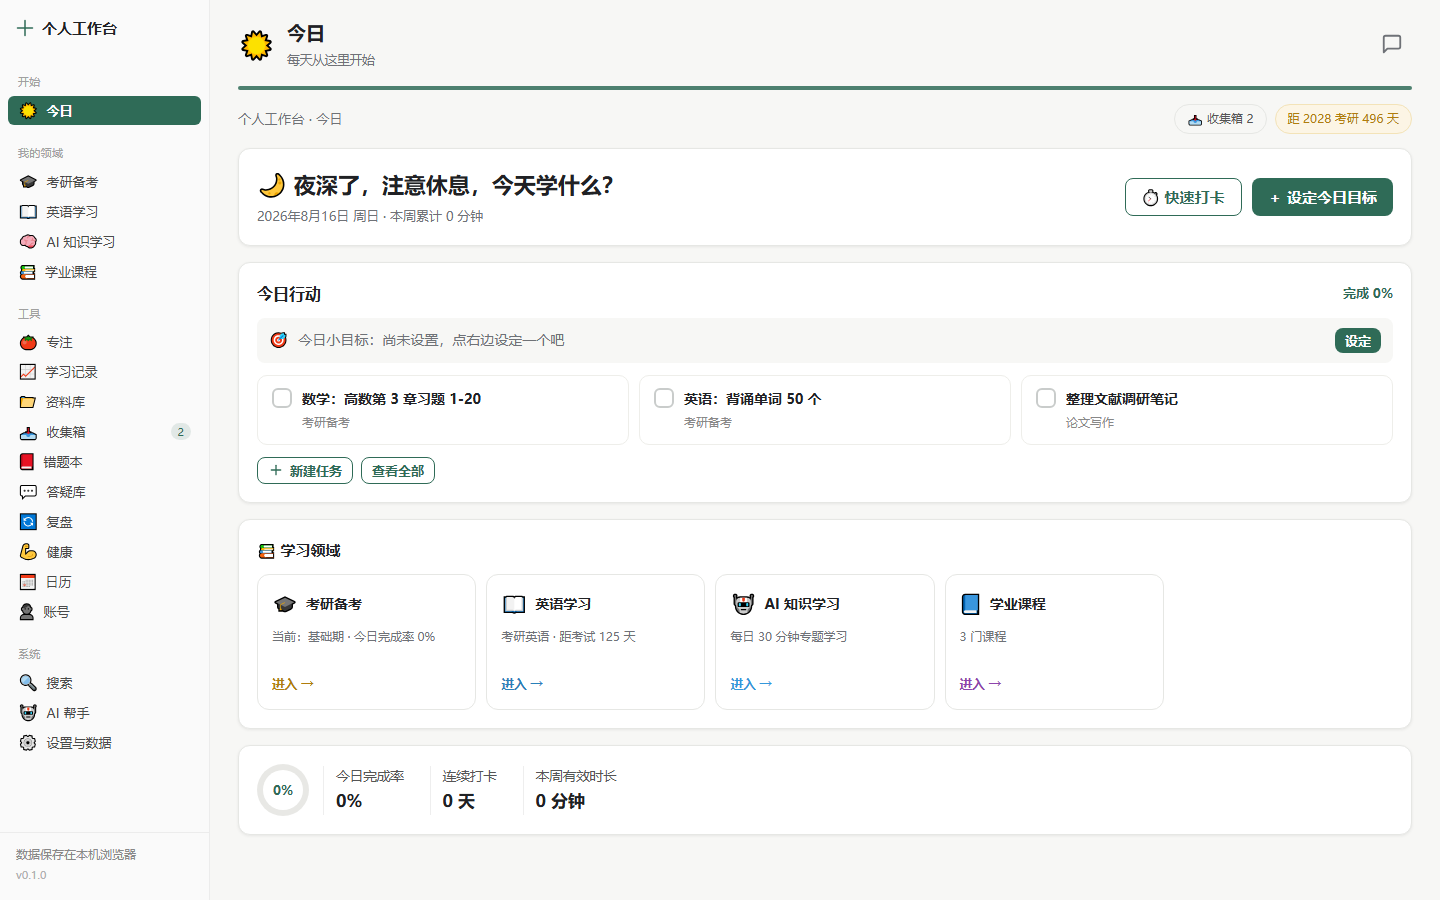
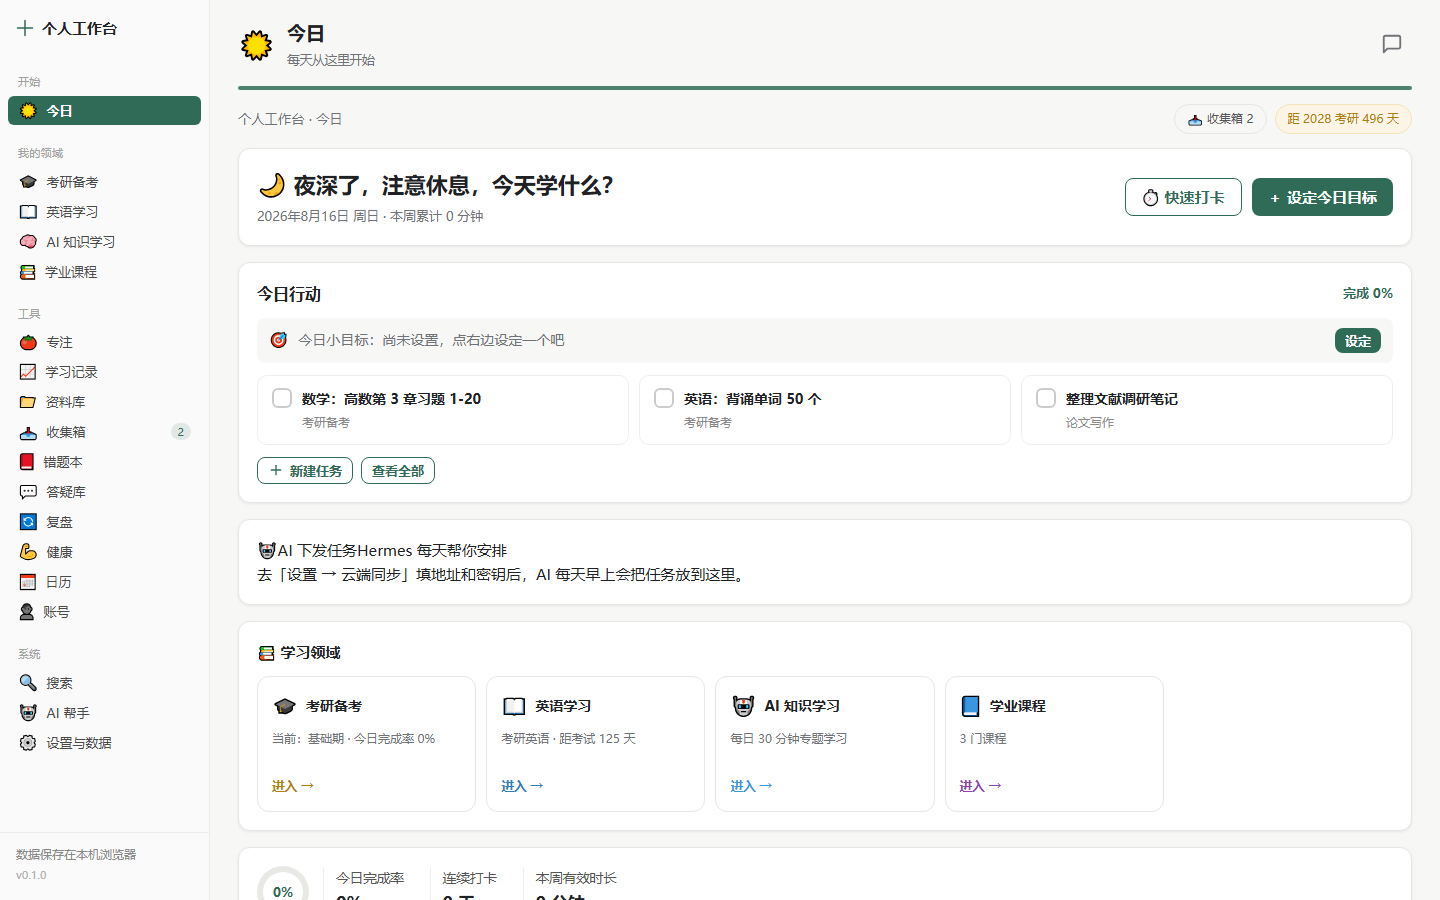
AI下发任务：今日页AI任务卡（云端拉取+本地打勾）+云端/api/tasks接口+Hermes每日7点自动生成任务下发

diff --git a/app.js b/app.js
@@ -590,7 +590,38 @@
     return map[view] || { t: view, s: "" };
   }
 
-  /* ---------- 渲染 ---------- */
+  /* ---------- AI 下发任务（Hermes 每天写入云端，今日页拉取展示） ---------- */
+  function aiTasksLoad() {
+    var box = $id("aiTasksBox");
+    if (!box) return;
+    var head = '<div class="c-head"><span class="c-emoji">🤖</span><span class="c-title">AI 下发任务</span><span class="c-sub">Hermes 每天帮你安排</span></div>';
+    var sc = data.settings.sync || {};
+    if (!sc.url || !sc.key) {
+      box.innerHTML = head + '<div class="li-sub">去「设置 → 云端同步」填地址和密钥后，AI 每天早上会把任务放到这里。</div>';
+      return;
+    }
+    fetch(String(sc.url).replace(/\/+$/, "") + "/api/tasks", { headers: { "X-Sync-Key": sc.key } })
+      .then(function (r) { return r.json(); })
+      .then(function (j) {
+        var t = todayStr();
+        if (!j || !j.tasks || j.date !== t) {
+          box.innerHTML = head + '<div class="li-sub">今天的任务还没下发（每天早上 7 点 Hermes 会生成）。</div>';
+          return;
+        }
+        var doneMap = W.aiTaskDone || {};
+        box.innerHTML = head + '<div class="home-tasks">' + j.tasks.map(function (task, i) {
+          var id = "ait-" + i;
+          return '<div class="home-task" data-action="ai-task-done" data-idx="' + i + '">' +
+            '<span class="box' + (doneMap[id] ? " on" : "") + '">' + (doneMap[id] ? "✓" : "") + "</span>" +
+            '<div><div class="ht-name">' + esc(task.title) + "</div>" +
+            (task.subject ? '<div class="ht-sub">' + esc(task.subject) + (task.note ? " · " + esc(task.note) : "") + "</div>" : "") +
+            "</div></div>";
+        }).join("") + "</div>";
+      })
+      .catch(function () {
+        box.innerHTML = head + '<div class="li-sub">拉取失败：网络不通或密钥不对。</div>';
+      });
+  }
   function applyFont() {
     var fs = (data.settings && data.settings.fontSize) || "normal";
     var body = document.body;
@@ -604,6 +635,7 @@
     applyTheme();
     applyBg();
     applyFont();
+    if (W.ui.view === "today") aiTasksLoad();
   }
   function renderNav() {
     var nav = $id("sideNav");
@@ -2737,6 +2769,14 @@
         data.settings.focusMode = data.settings.focusMode === "b" ? "a" : "b";
         save(true); renderView(); break;
 
+      case "ai-task-done": {
+        var dm2 = W.aiTaskDone = W.aiTaskDone || {};
+        var did2 = "ait-" + id;
+        dm2[did2] = !dm2[did2];
+        try { localStorage.setItem("wb_ai_tasks_done", JSON.stringify(dm2)); } catch (e) { }
+        aiTasksLoad();
+        break;
+      }
       case "sync-push": syncPush(false); break;
       case "sync-pull": syncPull(); break;
       case "sync-save": {

diff --git a/.pages-deploy/functions/api/tasks.js b/.pages-deploy/functions/api/tasks.js
@@ -1,0 +1,33 @@
+/* 个人工作台 · AI 任务下发（Cloudflare Pages Function）
+   GET  /api/tasks → 返回 {date, tasks:[{title, note, subject}]}（网页今日页展示）
+   PUT  /api/tasks → 写入（Hermes 定时任务每天调用）
+   依赖 Secret：SYNC_KEY */
+export async function onRequest(context) {
+  const { request, env } = context;
+  const cors = {
+    "Access-Control-Allow-Origin": "*",
+    "Access-Control-Allow-Methods": "GET, PUT, OPTIONS",
+    "Access-Control-Allow-Headers": "Content-Type, X-Sync-Key"
+  };
+  if (request.method === "OPTIONS") return new Response(null, { headers: cors });
+
+  const key = request.headers.get("X-Sync-Key") || "";
+  if (key !== env.SYNC_KEY) return new Response("unauthorized", { status: 401, headers: cors });
+
+  const kvUrl = "https://api.cloudflare.com/client/v4/accounts/" + env.CF_ACCOUNT_ID +
+    "/storage/kv/namespaces/" + env.CF_KV_NS + "/values/wb_tasks";
+  const auth = { "Authorization": "Bearer " + env.CF_TOKEN };
+
+  if (request.method === "GET") {
+    const r = await fetch(kvUrl, { headers: auth });
+    const body = r.ok ? await r.text() : "{}";
+    return new Response(body, { headers: { ...cors, "Content-Type": "application/json" } });
+  }
+  if (request.method === "PUT") {
+    const body = await request.text();
+    if (!body || body.length > 200 * 1024) return new Response("too large", { status: 413, headers: cors });
+    const r = await fetch(kvUrl, { method: "PUT", headers: { ...auth, "Content-Type": "text/plain" }, body });
+    return new Response(r.ok ? "ok" : "kv error", { status: r.ok ? 200 : 502, headers: cors });
+  }
+  return new Response("not found", { status: 404, headers: cors });
+}

diff --git a/functions/api/tasks.js b/functions/api/tasks.js
@@ -1,0 +1,33 @@
+/* 个人工作台 · AI 任务下发（Cloudflare Pages Function）
+   GET  /api/tasks → 返回 {date, tasks:[{title, note, subject}]}（网页今日页展示）
+   PUT  /api/tasks → 写入（Hermes 定时任务每天调用）
+   依赖 Secret：SYNC_KEY */
+export async function onRequest(context) {
+  const { request, env } = context;
+  const cors = {
+    "Access-Control-Allow-Origin": "*",
+    "Access-Control-Allow-Methods": "GET, PUT, OPTIONS",
+    "Access-Control-Allow-Headers": "Content-Type, X-Sync-Key"
+  };
+  if (request.method === "OPTIONS") return new Response(null, { headers: cors });
+
+  const key = request.headers.get("X-Sync-Key") || "";
+  if (key !== env.SYNC_KEY) return new Response("unauthorized", { status: 401, headers: cors });
+
+  const kvUrl = "https://api.cloudflare.com/client/v4/accounts/" + env.CF_ACCOUNT_ID +
+    "/storage/kv/namespaces/" + env.CF_KV_NS + "/values/wb_tasks";
+  const auth = { "Authorization": "Bearer " + env.CF_TOKEN };
+
+  if (request.method === "GET") {
+    const r = await fetch(kvUrl, { headers: auth });
+    const body = r.ok ? await r.text() : "{}";
+    return new Response(body, { headers: { ...cors, "Content-Type": "application/json" } });
+  }
+  if (request.method === "PUT") {
+    const body = await request.text();
+    if (!body || body.length > 200 * 1024) return new Response("too large", { status: 413, headers: cors });
+    const r = await fetch(kvUrl, { method: "PUT", headers: { ...auth, "Content-Type": "text/plain" }, body });
+    return new Response(r.ok ? "ok" : "kv error", { status: r.ok ? 200 : 502, headers: cors });
+  }
+  return new Response("not found", { status: 404, headers: cors });
+}

diff --git a/views.js b/views.js
@@ -152,6 +152,9 @@
       (overDue.length ? '<span class="ht-late" style="align-self:center;">另有 ' + overDue.length + " 条逾期</span>" : "") +
       "</div></div>";
 
+    /* AI 下发任务卡（Hermes 每天早上写入云端，这里异步拉取展示） */
+    html += '<div class="card" id="aiTasksBox"><div class="c-head"><span class="c-emoji">🤖</span><span class="c-title">AI 下发任务</span><span class="c-sub">Hermes 每天帮你安排</span></div><div class="li-sub">加载中…</div></div>';
+
     /* 学科入口 5 卡（紧凑） */
     html += '<div class="card"><div class="card-head"><h3>📚 学习领域</h3></div>' +
       '<div class="home-domains">' + d.domains.filter(function (x) { return !x.hidden; }).slice().sort(function (a, b) { return a.order - b.order; }).map(homeDomainCard).join("") + "</div></div>";

diff --git a/service-worker.js b/service-worker.js
@@ -3,7 +3,7 @@
    - HTML 页面：优先网络（每次打开都是最新版），网络失败时用缓存（离线可用）
    - 静态资源（css/js）：先读缓存（秒开），后台拉取更新缓存
    - 发布新版本时更新 CACHE 版本号，旧缓存自动清理，一次刷新即生效 */
-var CACHE = "wb-cache-v042";
+var CACHE = "wb-cache-v043";
 var ASSETS = [
   "./",
   "./index.html",
